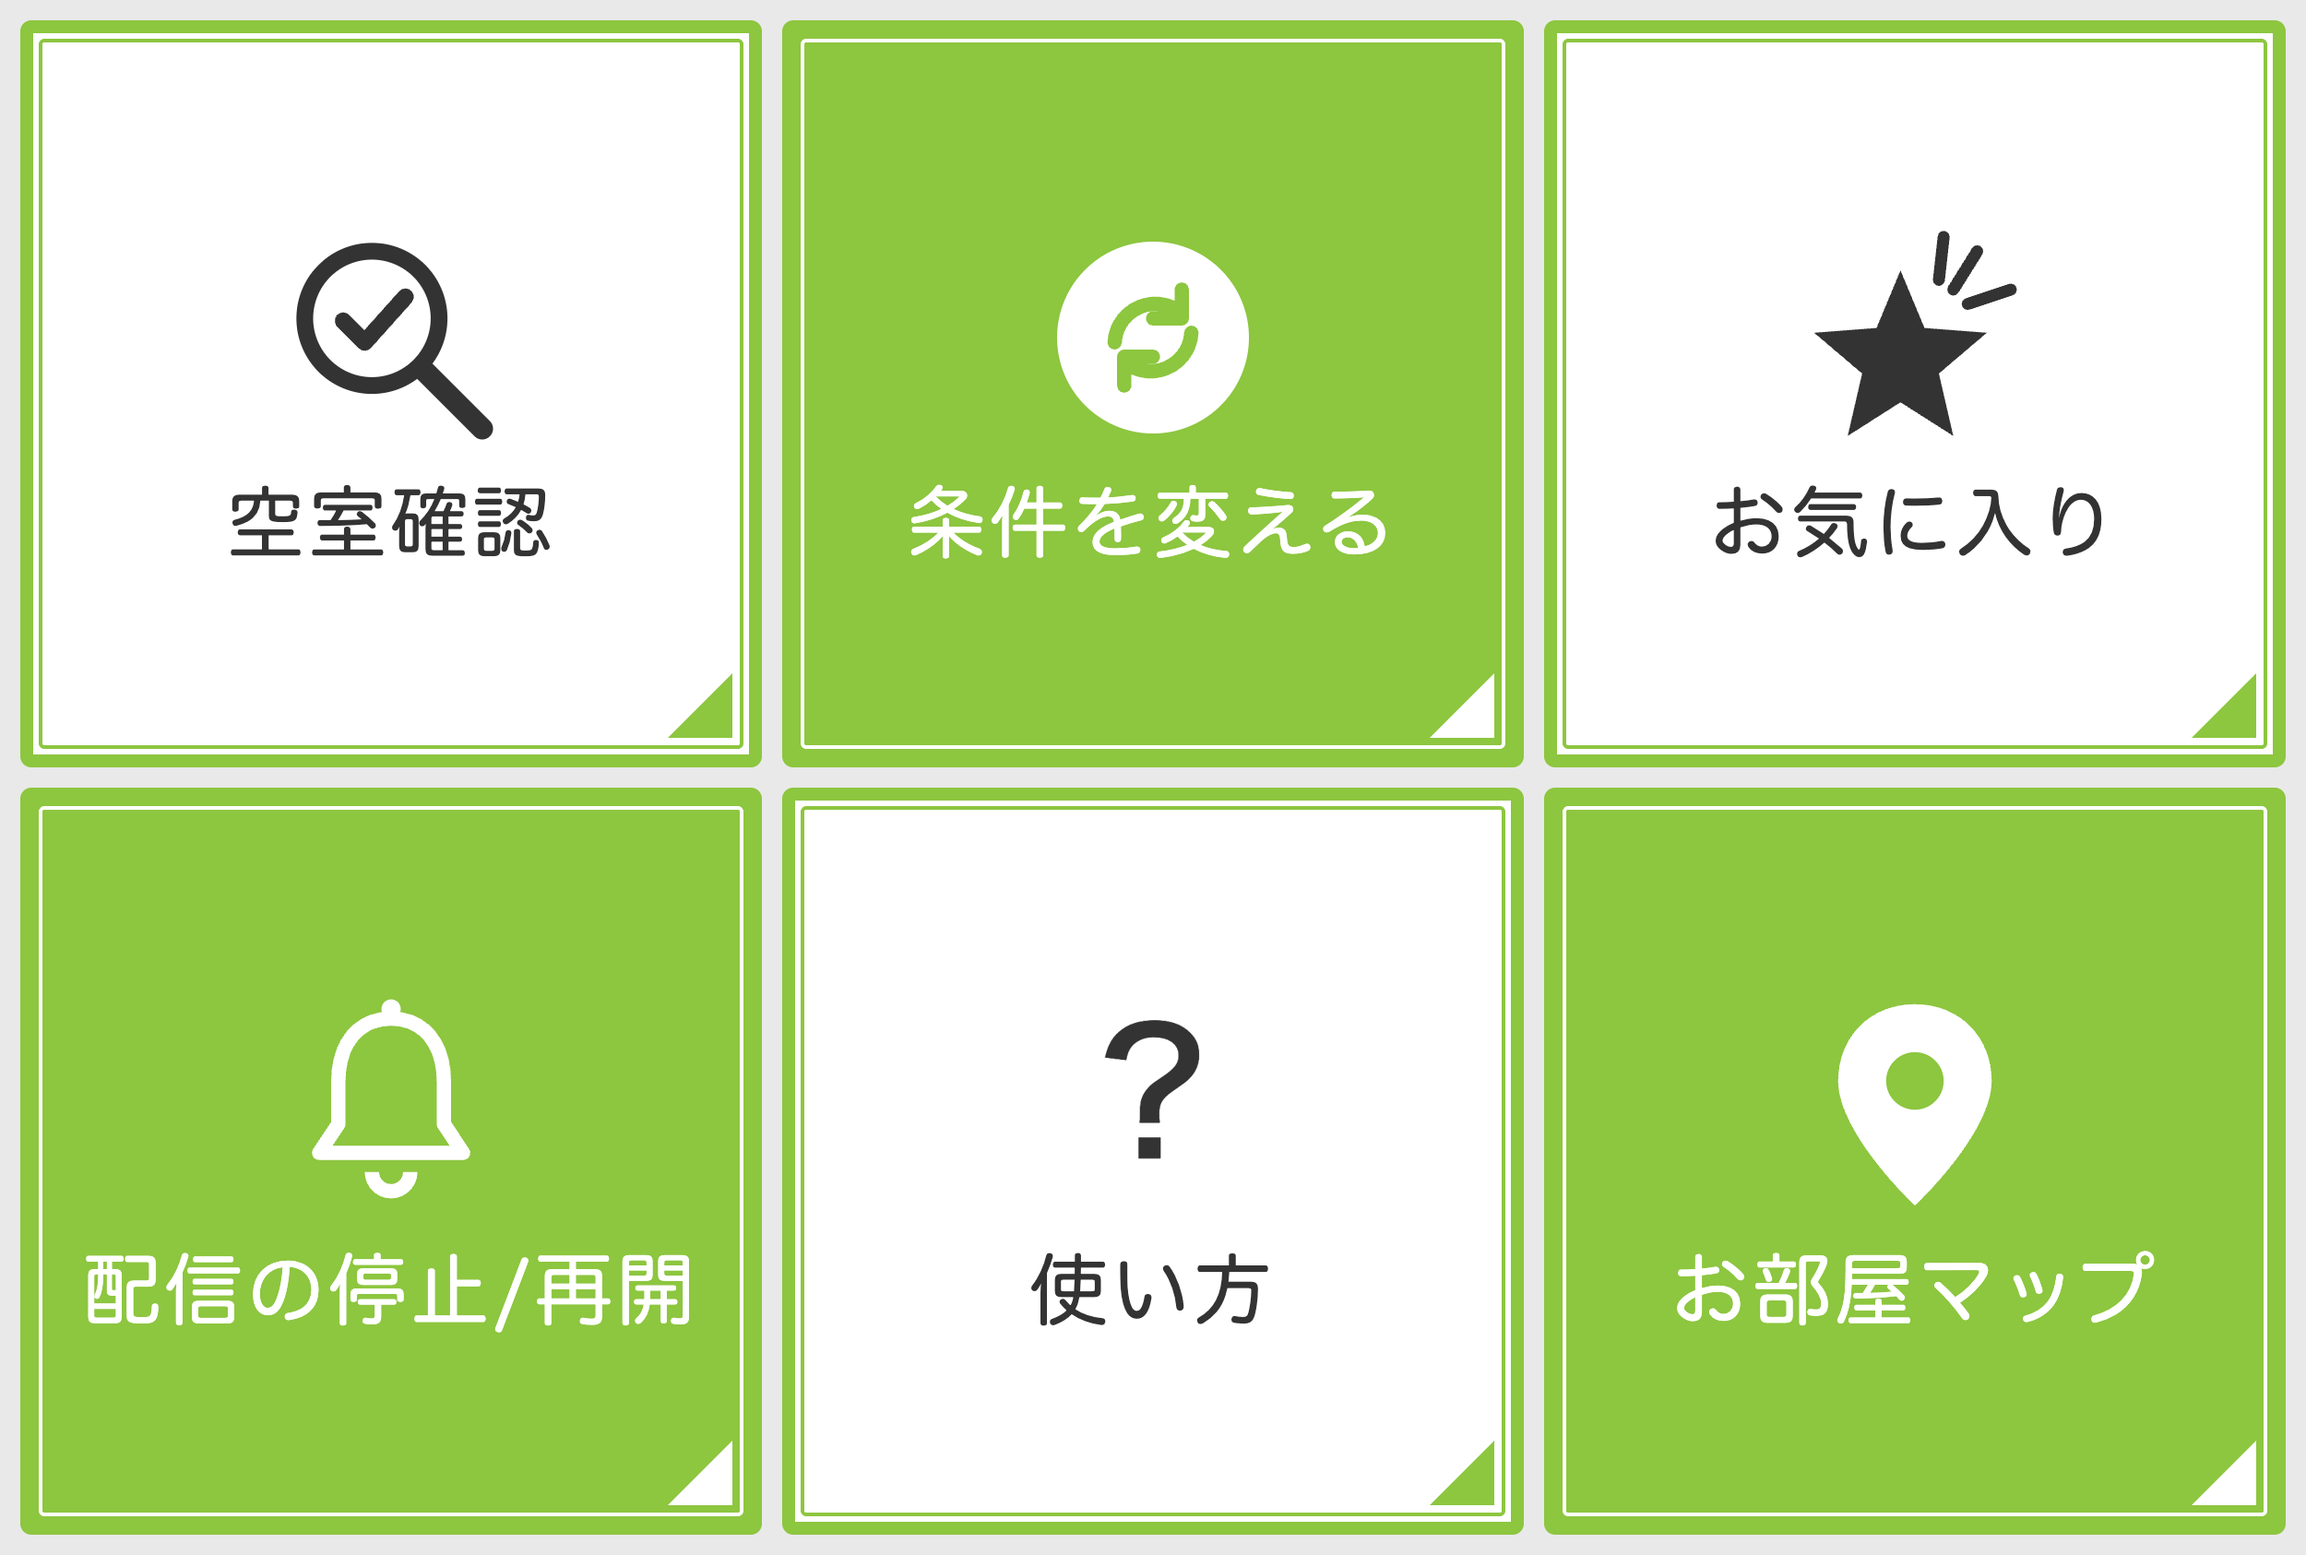
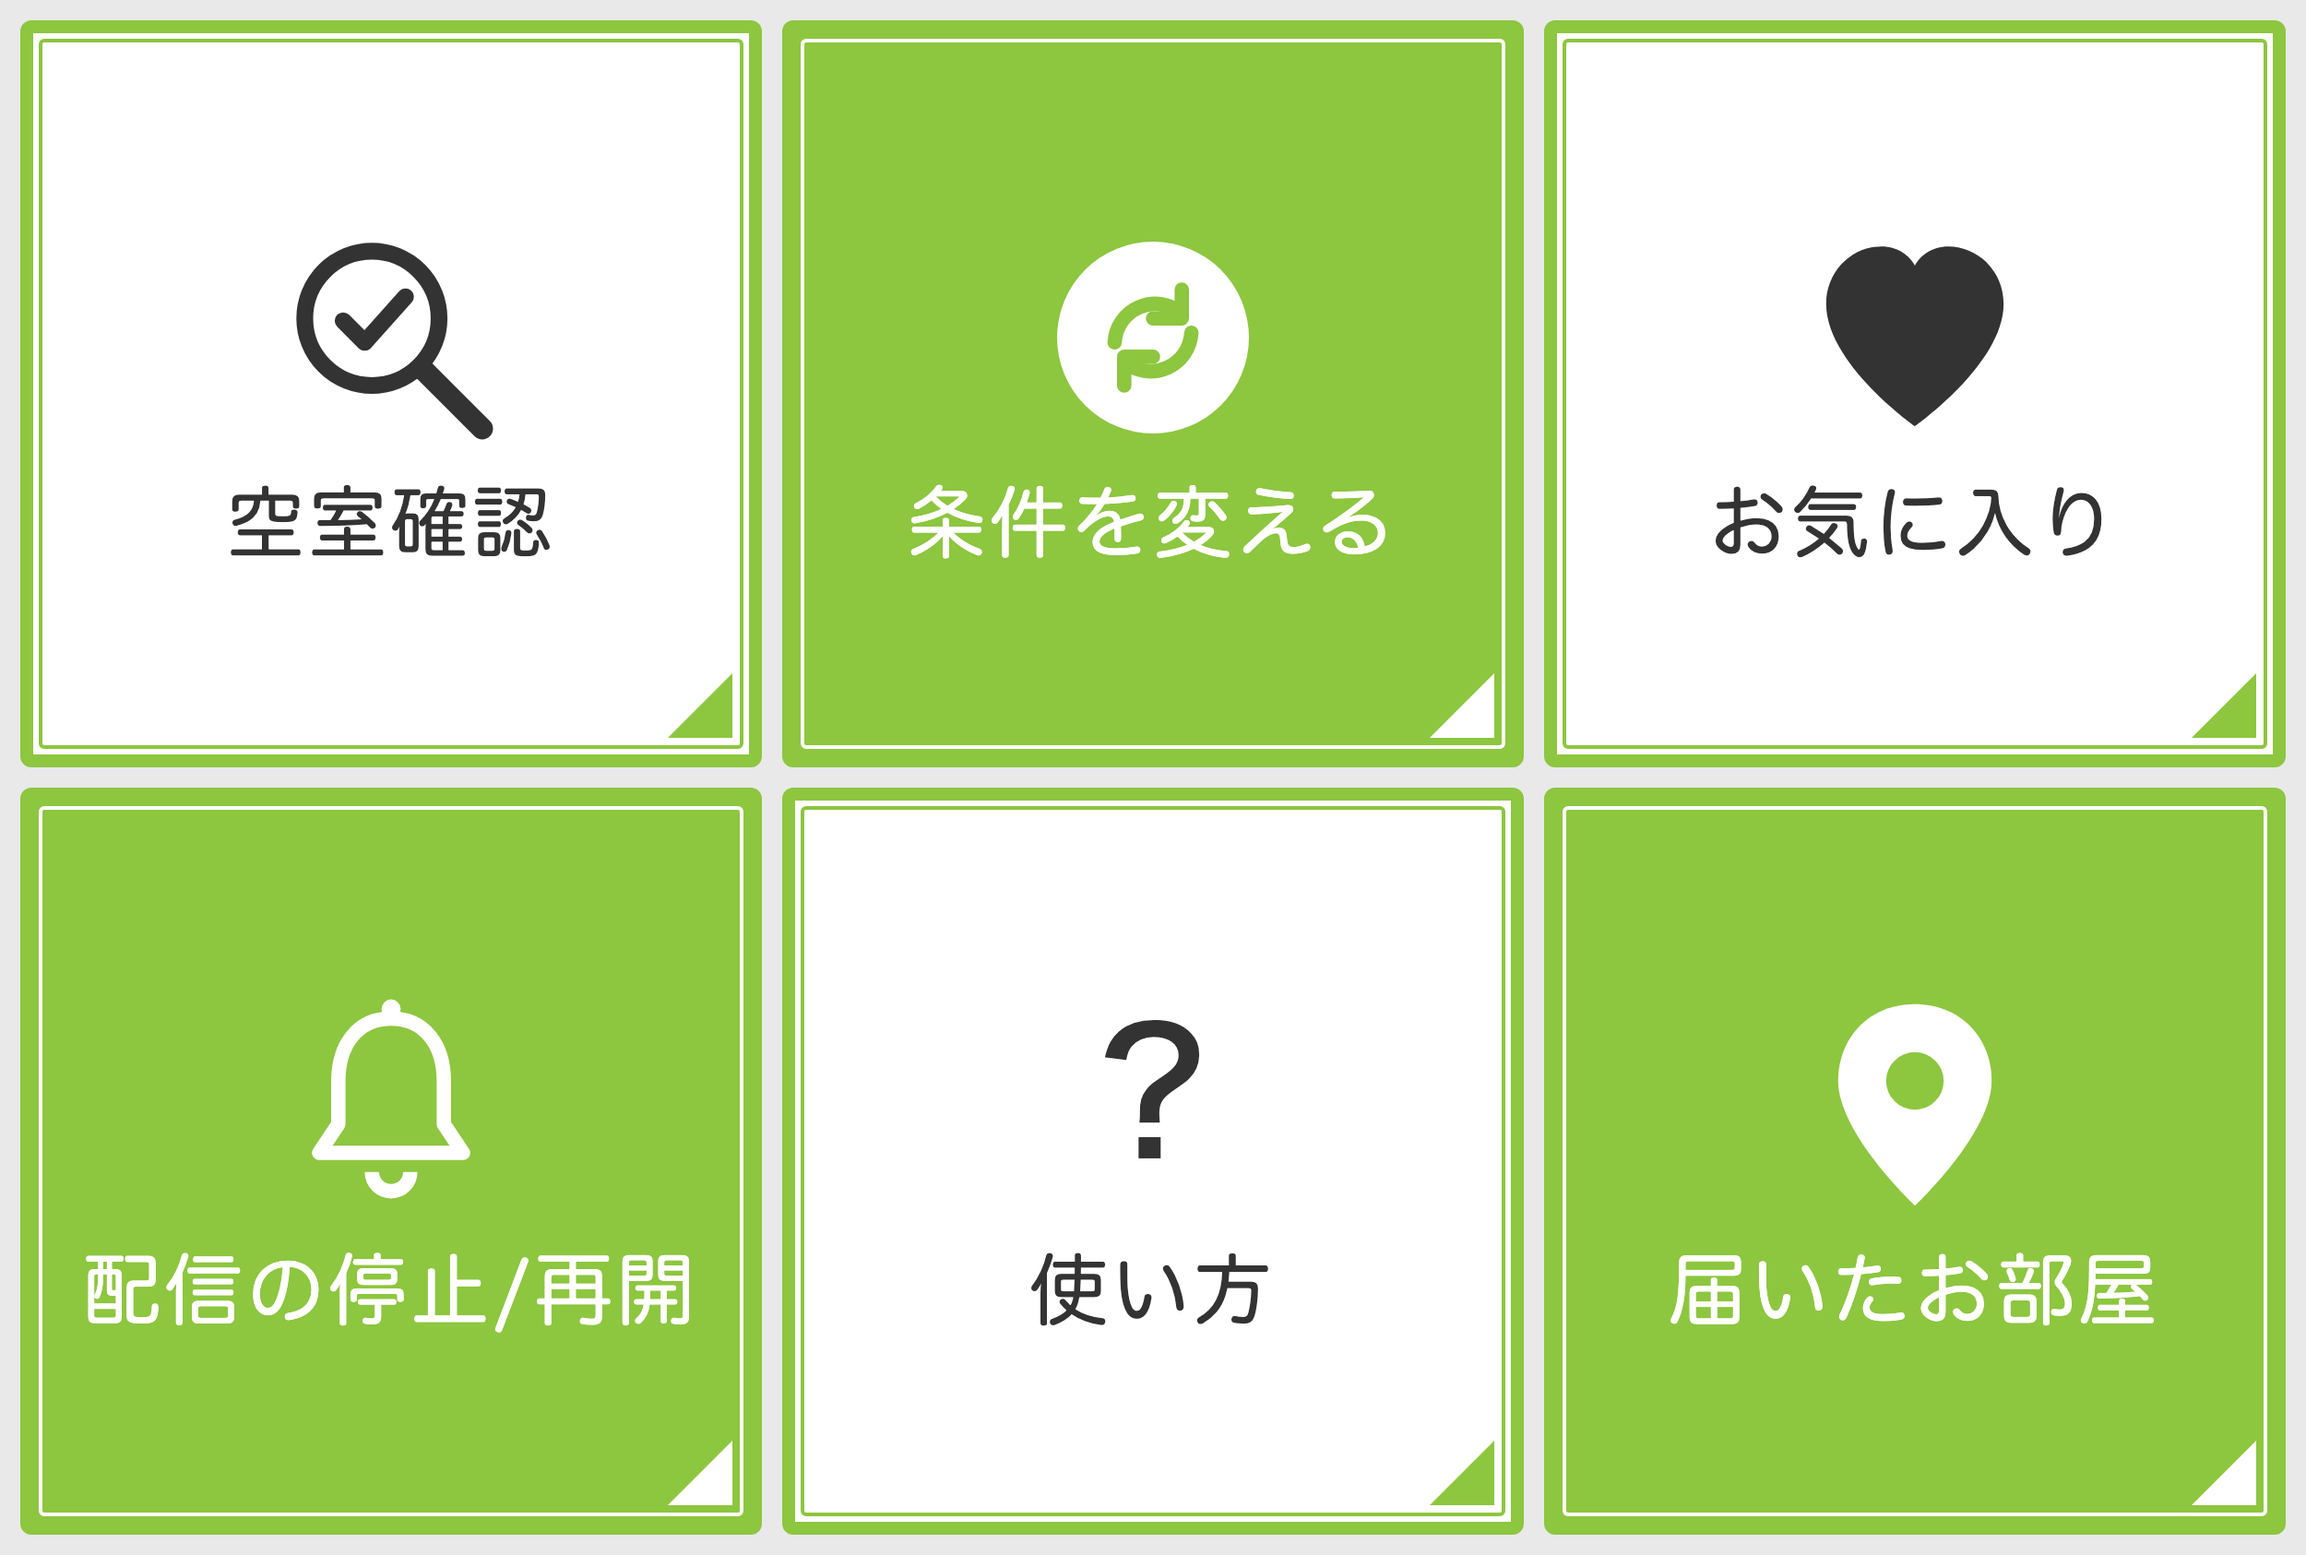
change(LINE): 登録後メニューのお気に入りをハートに、お部屋マップを「届いたお部屋」に
お気に入りは星＋きらめきの飾りだったが、飾りの配置が整わないという指摘が以前あった。
ハート1つにしてすっきりさせた。

お部屋マップは名前が分かりにくいので「届いたお部屋」にした。
⚠ 押すとトークに出る文字も揃える必要があるので action も変更。
   受け口(コード.js)は旧い「お部屋マップ」も受け続ける。
   過去のトークに残ったボタンから届くことがあるため。

画像は menu_after.html から headless Chrome で再生成（2500x1686）。

Changed region(s): [[0.7176, 0.8019, 0.936, 0.8636], [0.78, 0.1542, 0.8736, 0.2776]]

diff --git a/Desktop/rent_researcher/docs/richmenu/menu_after.html b/Desktop/rent_researcher/docs/richmenu/menu_after.html
@@ -11,4 +11,4 @@ body{background:#e9e9e9;font-family:"Hiragino Maru Gothic ProN","Hiragino Sans",
 .tile .t{font-size:84px;letter-spacing:.06em;text-align:center;line-height:1.25;font-weight:500}
 .corner{position:absolute;right:18px;bottom:18px;width:0;height:0;border-left:70px solid transparent;border-bottom:70px solid #8dc63f}
 .tile.g .corner{border-bottom-color:#fff}
-html,body{width:2500px;height:843px}.tile.g .alt2{fill:#8dc63f}.tile.w .alt2{fill:#fff}.tile.g .alt{stroke:#8dc63f}.tile.w .alt{stroke:#fff}html,body{width:2500px;height:1686px}</style></head><body><div class="grid" style="grid-template-columns:1fr 1fr 1fr;grid-template-rows:1fr 1fr"><div class="tile w"><div class="in"></div><svg viewBox="0 0 100 100"><circle cx="42" cy="42" r="28" fill="none" stroke="currentColor" stroke-width="7"/><path d="M63 63 L88 88" stroke="currentColor" stroke-width="9" stroke-linecap="round"/><path d="M30 43 L39 52 L56 33" fill="none" stroke="currentColor" stroke-width="7" stroke-linecap="round" stroke-linejoin="round"/></svg><div class="t">空室確認</div><div class="corner"></div></div><div class="tile g"><div class="in"></div><svg viewBox="0 0 100 100"><circle cx="50" cy="50" r="40" fill="currentColor"/><path d="M34 52 A17 17 0 0 1 62 40" fill="none" class="alt" stroke="#8dc63f" stroke-width="6" stroke-linecap="round"/><path d="M62 30 V42 H50" fill="none" class="alt" stroke="#8dc63f" stroke-width="6" stroke-linecap="round" stroke-linejoin="round"/><path d="M66 48 A17 17 0 0 1 38 60" fill="none" class="alt" stroke="#8dc63f" stroke-width="6" stroke-linecap="round"/><path d="M38 70 V58 H50" fill="none" class="alt" stroke="#8dc63f" stroke-width="6" stroke-linecap="round" stroke-linejoin="round"/></svg><div class="t">条件を変える</div><div class="corner"></div></div><div class="tile w"><div class="in"></div><svg viewBox="0 0 100 100"><path d="M44 22 L54 46 L80 48 L60 65 L66 91 L44 77 L22 91 L28 65 L8 48 L34 46 Z" fill="currentColor"/><path d="M66 30 L76 14 M72 36 L90 30 M60 26 L62 8" stroke="currentColor" stroke-width="5" stroke-linecap="round"/></svg><div class="t">お気に入り</div><div class="corner"></div></div><div class="tile g"><div class="in"></div><svg viewBox="0 0 100 100"><path d="M50 14 C36 14 28 25 28 40 V58 L20 70 H80 L72 58 V40 C72 25 64 14 50 14 Z" fill="none" stroke="currentColor" stroke-width="6" stroke-linejoin="round"/><path d="M42 78 A8 8 0 0 0 58 78" fill="none" stroke="currentColor" stroke-width="6"/><circle cx="50" cy="10" r="4" fill="currentColor"/></svg><div class="t">配信の停止/再開</div><div class="corner"></div></div><div class="tile w"><div class="in"></div><svg viewBox="0 0 100 100"><text x="50" y="72" text-anchor="middle" font-size="72" font-family="Hiragino Sans" font-weight="600" fill="currentColor">?</text></svg><div class="t">使い方</div><div class="corner"></div></div><div class="tile g"><div class="in"></div><svg viewBox="0 0 100 100"><path d="M50 8 C31 8 18 22 18 40 C18 62 50 92 50 92 C50 92 82 62 82 40 C82 22 69 8 50 8 Z" fill="currentColor"/><circle cx="50" cy="40" r="12" class="alt2"/></svg><div class="t">お部屋マップ</div><div class="corner"></div></div></div></body></html>
+html,body{width:2500px;height:843px}.tile.g .alt2{fill:#8dc63f}.tile.w .alt2{fill:#fff}.tile.g .alt{stroke:#8dc63f}.tile.w .alt{stroke:#fff}html,body{width:2500px;height:1686px}</style></head><body><div class="grid" style="grid-template-columns:1fr 1fr 1fr;grid-template-rows:1fr 1fr"><div class="tile w"><div class="in"></div><svg viewBox="0 0 100 100"><circle cx="42" cy="42" r="28" fill="none" stroke="currentColor" stroke-width="7"/><path d="M63 63 L88 88" stroke="currentColor" stroke-width="9" stroke-linecap="round"/><path d="M30 43 L39 52 L56 33" fill="none" stroke="currentColor" stroke-width="7" stroke-linecap="round" stroke-linejoin="round"/></svg><div class="t">空室確認</div><div class="corner"></div></div><div class="tile g"><div class="in"></div><svg viewBox="0 0 100 100"><circle cx="50" cy="50" r="40" fill="currentColor"/><path d="M34 52 A17 17 0 0 1 62 40" fill="none" class="alt" stroke="#8dc63f" stroke-width="6" stroke-linecap="round"/><path d="M62 30 V42 H50" fill="none" class="alt" stroke="#8dc63f" stroke-width="6" stroke-linecap="round" stroke-linejoin="round"/><path d="M66 48 A17 17 0 0 1 38 60" fill="none" class="alt" stroke="#8dc63f" stroke-width="6" stroke-linecap="round"/><path d="M38 70 V58 H50" fill="none" class="alt" stroke="#8dc63f" stroke-width="6" stroke-linecap="round" stroke-linejoin="round"/></svg><div class="t">条件を変える</div><div class="corner"></div></div><div class="tile w"><div class="in"></div><svg viewBox="0 0 100 100"><path d="M50 87 C50 87 13 61 13 36 C13 22 24 12 36 12 C43 12 48 16 50 20 C52 16 57 12 64 12 C76 12 87 22 87 36 C87 61 50 87 50 87 Z" fill="currentColor"/></svg><div class="t">お気に入り</div><div class="corner"></div></div><div class="tile g"><div class="in"></div><svg viewBox="0 0 100 100"><path d="M50 14 C36 14 28 25 28 40 V58 L20 70 H80 L72 58 V40 C72 25 64 14 50 14 Z" fill="none" stroke="currentColor" stroke-width="6" stroke-linejoin="round"/><path d="M42 78 A8 8 0 0 0 58 78" fill="none" stroke="currentColor" stroke-width="6"/><circle cx="50" cy="10" r="4" fill="currentColor"/></svg><div class="t">配信の停止/再開</div><div class="corner"></div></div><div class="tile w"><div class="in"></div><svg viewBox="0 0 100 100"><text x="50" y="72" text-anchor="middle" font-size="72" font-family="Hiragino Sans" font-weight="600" fill="currentColor">?</text></svg><div class="t">使い方</div><div class="corner"></div></div><div class="tile g"><div class="in"></div><svg viewBox="0 0 100 100"><path d="M50 8 C31 8 18 22 18 40 C18 62 50 92 50 92 C50 92 82 62 82 40 C82 22 69 8 50 8 Z" fill="currentColor"/><circle cx="50" cy="40" r="12" class="alt2"/></svg><div class="t">届いたお部屋</div><div class="corner"></div></div></div></body></html>

diff --git a/RichMenu.js b/RichMenu.js
@@ -67,8 +67,8 @@ function _richMenuDef_(kind) {
   // 3列×2行: 空室確認 / 条件を変える / お気に入り / 配信の停止・再開 / 使い方 / お部屋マップ
   // お部屋マップは LIFF が設定済みなら押した瞬間に開く(uri)。未設定ならボットがリンクを返す(message)。
   var mapAction = MAP_LIFF_CONFIG.liffId
-    ? { type: 'uri', label: 'お部屋マップ', uri: 'https://liff.line.me/' + MAP_LIFF_CONFIG.liffId }
-    : msg('お部屋マップ');
+    ? { type: 'uri', label: '届いたお部屋', uri: 'https://liff.line.me/' + MAP_LIFF_CONFIG.liffId }
+    : msg('届いたお部屋');   // ⚠ 押すとトークにこの文字が出る。画像のラベルと揃えること
   var areas = [
     { bounds: { x: 0,    y: 0,   width: 833, height: 843 }, action: msg('空室確認') },
     { bounds: { x: 833,  y: 0,   width: 833, height: 843 }, action: msg('条件変更') },

diff --git a/コード.js b/コード.js
@@ -456,7 +456,8 @@ function doPost(e) {
       }
 
       // コマンド: お部屋マップ（登録後リッチメニュー・LIFF未設定時） → RichMenu.js
-      if (message === 'お部屋マップ') {
+      // ⚠ 旧い言い方も受ける。過去のトークに残ったボタンから届くことがある。
+      if (message === '届いたお部屋' || message === 'お部屋マップ') {
         handleMapCommand(replyToken, userId);
         return;
       }
